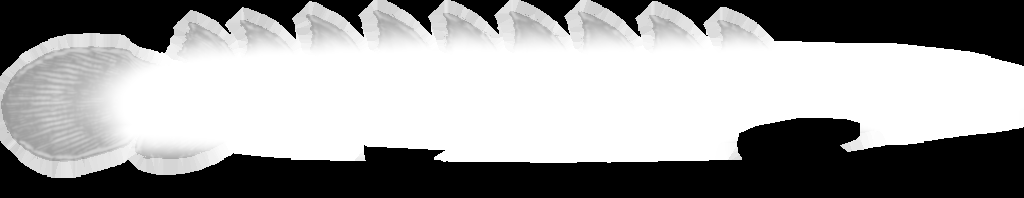
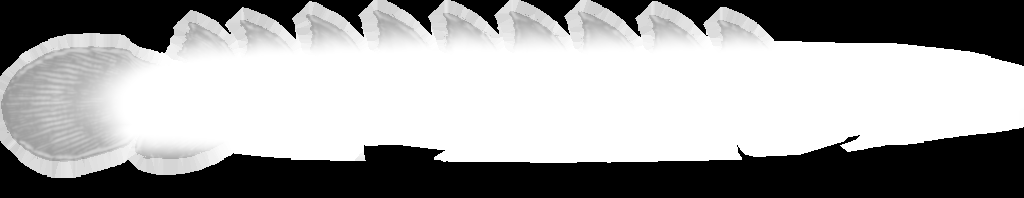
R201: bichirb rebuilt through the current pipeline (pectoral-waist fix b9fcbe1d): belly no longer steps up ahead of the pectoral. Method row 75. Awaiting Nathan's yes.

Changed region(s): [[0.7188, 0.5758, 0.8438, 0.8182], [0.3438, 0.7273, 0.4375, 0.7576]]

diff --git a/research/fish-model-sheet-method.md b/research/fish-model-sheet-method.md
@@ -323,6 +323,7 @@ Each line was a mistake that reached Nathan once. Look for it in the step G rend
 | 72 | "looks good except for the black piece between the goldfish fin near the rear. Thought we fixed that bug already" (Nathan, 2026-11-27, b9 goldfishb) | Not the solid this time (rows 42-43 had already run; `--body-from-map` in 9d7e1698 only made it smaller). The sheet's anal fin overlaps the lower tail lobe, closing off a black gap under the stalk (67 px, 18.4 px from the outside background). Row 45's `--solid` rule keeps an enclosed black pocket 15 px or more from the background as fish (pupils, dark marks), so both cards painted the gap opaque black. (The anal fin recorded to 99.4 % SL was a red herring: its last 6 % SL is 1-2 % SL high, under the body.) | Spec key `solid_near` (`fish-build.py` passes `--solid-near` to both cutouts; `fish-new.py` keeps it): goldfishb 20. Left per species: a scan of every build-B sheet found many real dark marks 15-30 px deep (bala shark's black fin edges, angelfish), so no global depth separates them. To find a case: `fish-cutout-card.py`'s pockets 15 px or deeper that sit between fins at the tail base | Side close-up before / after `C:/Users/nreed/fish-sheets/goldfish-b9-gen/wedge-before-after.png`: gap now shows the tank. gbrb, oscarb, discusc built with the HEAD and new scripts: anatomy and every texture identical |
 | 73 | "The heads of some fish are now too blunt up front and then like zero width increase from head to belly" (Nathan, 2026-11-27, R194), then on the pictures: "in these examples I like the way we have it now", "maybe one blanket rule for all fish isnt right. A danio is not the same as a fancy goldfish which is kind of supposed to have a bloated midsection", "the fancy goldfish should be allowed to bloat", "49% (0.75)" | Row 65's soft cap (`photofish.ts widthScale`, every fish with thickx < 1: 84 of 97 live) flattens the width from the snout back to the widest station: head width / widest at 10 % SL 0.85-0.99 (tiger barb 0.87, gourami 0.94, kole tang 0.90, danio 0.91) vs 0.49-0.72 drawn. Nathan kept that for the slim fish (tiger barb, pearl gourami, kole tang, danio shown beside a taper (drawn ratio^0.6) and the old uniform factor). On a round fish it is wrong: the fancy goldfish became a flat-sided box head with a straight taper, 30 % SL wide (proxy width 24 from wild C. carassius clamped to its range 19-30) vs 65 % drawn. A softer cap knee (exponent 3 or 2 for 6) moved full width only from 15 to 25-35 % SL and still read as a box. The b6 head-depth factor (`fish-new.py --head-depth`) is not a cause: opt-in, no fish uses it. Side view: the PIPELINE step 4 "Blunt, gently rounded snout" bullet may add to it (depth at 5 % SL / max: b5 0.32, b6-b10 0.36-0.45; species mix confounds) - unchanged, not tested. | No blanket rule: the cap stays the default; a fish whose body plan is round or bloated gets spec `width_fit: "uniform"` (keep the sheet's own top-view shape) and its own `width_pct_sl` without a proxy `width_range`. goldfishb: uniform, 48.5 % SL (0.75 x drawn), picked by Nathan from 30 / 39 / 49 renders. Mass 1.73x a generic goldfish length-weight (a 0.0219, b 3.0, TL cm; unverified for fancy forms) vs 1.20x before: accepted on looks. **Check:** straight-down render (review.html Top is 83 deg; compare at 90) beside the sheet's top panel; pictures `research/screens/R194/`. |
 | 74 | "the harlequen rasboras are too orange instead of silver" (Nathan, 2026-11-27, harlequinb) | The ChatGPT sheet painted the whole fish orange, snout to tail, pectorals included; the real fish is silver with a rose cast, a copper line along the back, orange-red fins and the black wedge. The spec's `sat` scales every pixel, fins too, so it could not separate them. | Spec key `body_recolour` (`scripts/fishrecolour.py`, called by `fish-build.py`; `fish-new.py` keeps it): body mask from the anatomy depth profile (fins and eye left out, 4 px feather), chroma x `sat` [front, rear], hue turn `hue` (deg, + = toward red / pink), `lift` on mid and bright tones only (the wedge stays black), `ridge` [sat, frac] keeps copper on the top frac of the back, `pectoral` recolours the pectoral polygon on the fin card. Top / front panels take it whole. harlequinb: sat [0.2, 0.3], hue 8, lift 1.2, ridge [0.7, 0.14], pectoral 0.25. Rebuilding with current scripts also picked up b8's paired-fin waist fix: body 1 % SL deeper at 50-60 % SL. | research/screens/harlequin-silver/review.png beside Wikimedia Commons photos File:Cyprinidae_Trigonostigma_heteromorpha_3.jpg and File:Harlequin_rasbora.jpg: silver flank, orange-red fins, clear pectoral. |
+| 75 | Bichir: "the bichir has the weird bug where the body dips in around the pec fin" (Nathan, 2026-11-27, bichirb) | The belly line stepped up just ahead of the pectoral root: bichirb was last built 2026-11-24, before the pectoral-waist fix (b9fcbe1d 2026-11-26, `clamp_profile` skips paired-fin stations), so the profile was clamped at the pectoral station and pinched the body. No spec change: a plain `python -I scripts/fish-build.py research/fish-specs/bichirb.json` through the current pipeline removed it (belly now runs straight into the pectoral). Build log still prints `CHECK body vs fin map` 4-6 % SL at 20-30 % SL (pectoral station), the same station the fix lets the body keep. Check for any build-B fish made before 2026-11-26: look for a belly step at the pectoral. |
 
 ## 5. Open problems (not solved yet; whoever solves one moves it into sections 3-4)
 

diff --git a/research/requests.md b/research/requests.md
@@ -228,3 +228,4 @@ Answered 11-13: decisions 2, 3, 5 (mock up Print), 6-14, most of 4; R8 fix; R10 
 | R151 | 11-25 | Plant leaves look crude next to the build-B fish ("with how good our fish models are now, it makes the plants look kind of crappy by comparison"): painted leaf textures from ChatGPT leaf sheets mapped onto the procedural plants (shape, growth, sway unchanged); pilot crypt, vallisneria (grass), carpet | PT | - | - | - | prompts research/plant-sheets/prompts/leaf-sheet.md (Nathan generates the 3 sheets); brief prompts/lane-PT-plant-textures.md; lane not started ART1 holds the colour close-out (R169). |
 | C1 | FX1: Discover pill above the Water chip; Checks a compact closed pill; plain Graphics settings labels | 1869 | Coordinator 24 scratchpad live-deskT.png / live-phoneT.png (2026-11-12); labels read from the live bundle |
 | R81 | "Open a tank" menu too low: fixed by DG1 (dialogs centred); Open dialog sits centred at 1280x800 | 2314 | research/screens/R81/open-dialog-live-2314.jpg (C27, live 2026-11-18) |
+| R201 | 11-27 | Bichir model bug. Nathan: "also the bichir has the weird bug where the body dips in around the pec fin" | relayed by C24 to lane R194 | r201-bichir-pec (sha in the report) | - | - | rebuilt bichirb with the current pipeline (method row 75): the belly step ahead of the pectoral is gone; waiting for Nathan's yes, not live-affecting until merged | before/after sent to Nathan in chat |
